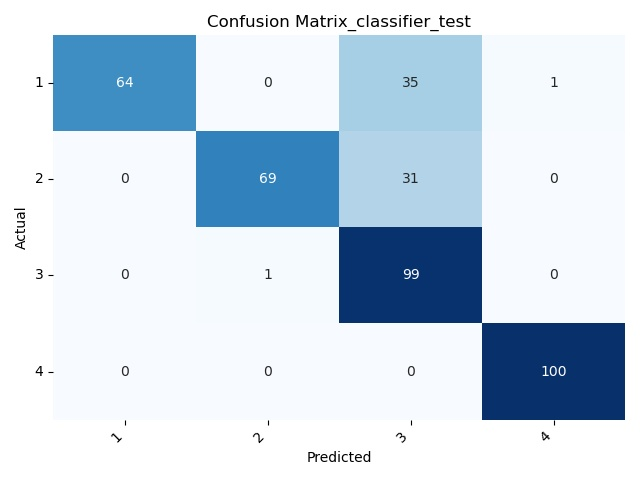
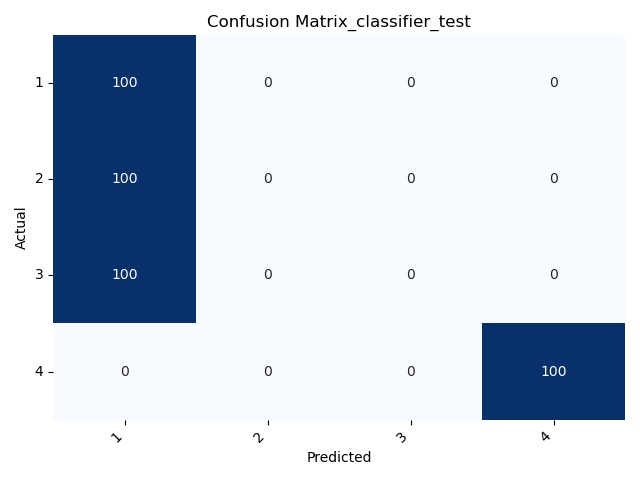
Commits

diff --git a/test.py b/test.py
@@ -16,8 +16,8 @@ torch.backends.cudnn.deterministic, torch.backends.cudnn.benchmark = True, False
 device = torch.device("cuda" if torch.cuda.is_available() else "cpu")
 
 # File paths and settings
-chip_number = 2  # Chip number for testing
-base_path = "D:\Stelios\Work\Auth_AI\semester_3\Thesis\January\encoder_decoder\code\data\mean_and_std_of_class_4_of_every_chip"
+chip_number = 4  # Chip number for testing
+base_path = "D:\Stelios\Work\Auth_AI\semester_3\Thesis\December/fts_mzi_project/types_of_normalization\class4_of_every_chip_mean_and_std/test_4"
 test_file_path = f'{base_path}/{chip_number}.csv'
 batch_size = 32  # Adjust batch size if needed
 
@@ -50,7 +50,7 @@ def load_and_preprocess_test_data(file_path, fraction=1, random_seed=42):
     X = np.where(X == -np.inf, finite_min, X)
     X = np.where(X == np.inf, finite_max, X)
 
-    # X = X + X * 0.02  # Data perturbation (same as in training)
+    X = X + X * 0.02  # Data perturbation (same as in training)
 
     # Get mean and std for class 4 normalization
     chip_column = "Chip"
@@ -62,7 +62,7 @@ def load_and_preprocess_test_data(file_path, fraction=1, random_seed=42):
 
     # Normalize for non-class-4 samples
     exclude_class_4 = (df['Class'] != label_encoder.transform(['4'])[0])
-    # X[exclude_class_4] = (X[exclude_class_4] - mean_values) / std_values
+    X[exclude_class_4] = (X[exclude_class_4] - mean_values) / std_values
 
     # Reshape input for models (batch_size, channels, features)
     X = X.reshape(-1, 1, 32)
